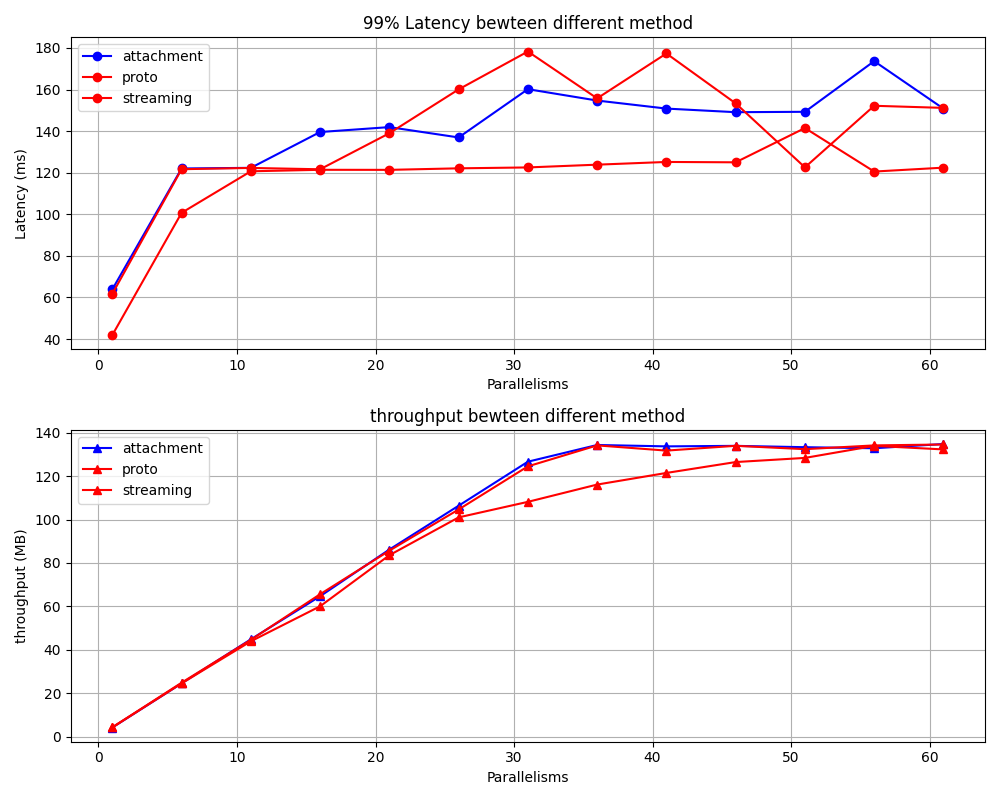
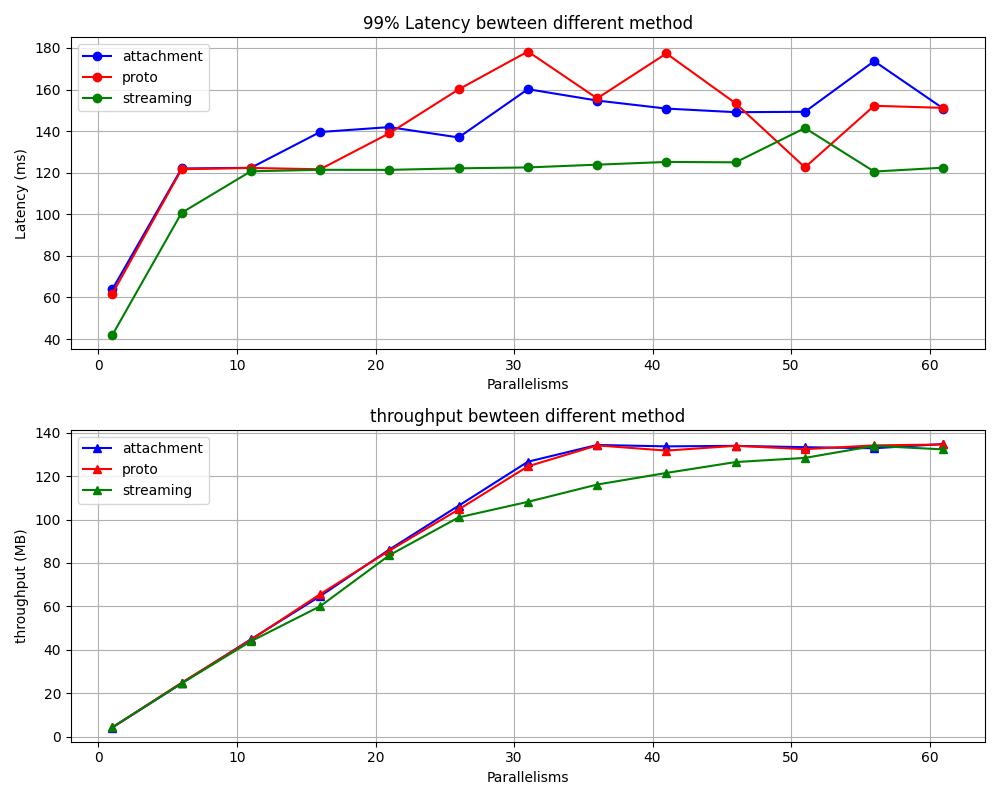
fix

diff --git a/drawer.py b/drawer.py
@@ -66,7 +66,7 @@ def draw(payload_size):
     ax1.plot(parallelisms, attachment_lantencys[payload_size], marker='o', label='attachment', color='b')
     ax1.plot(parallelisms, proto_lantencys[payload_size], marker='o', label='proto', color='r')
     if(payload_size in streaming_lantencys):
-        ax1.plot(parallelisms, streaming_lantencys[payload_size], marker='o', label='streaming', color='r')
+        ax1.plot(parallelisms, streaming_lantencys[payload_size], marker='o', label='streaming', color='g')
     ax1.set_xlabel('Parallelisms')
     ax1.set_ylabel('Latency (ms)')
     ax1.set_title('99% Latency bewteen different method')
@@ -77,7 +77,7 @@ def draw(payload_size):
     ax2.plot(parallelisms, attachment_speed[payload_size], marker='^', label='attachment', color='b')
     ax2.plot(parallelisms, proto_speed[payload_size], marker='^', label='proto', color='r')
     if(payload_size in streaming_speed):
-        ax2.plot(parallelisms, streaming_speed[payload_size], marker='^', label='streaming', color='r')
+        ax2.plot(parallelisms, streaming_speed[payload_size], marker='^', label='streaming', color='g')
     ax2.set_xlabel('Parallelisms')
     ax2.set_ylabel('throughput (MB)')
     ax2.set_title('throughput bewteen different method')
